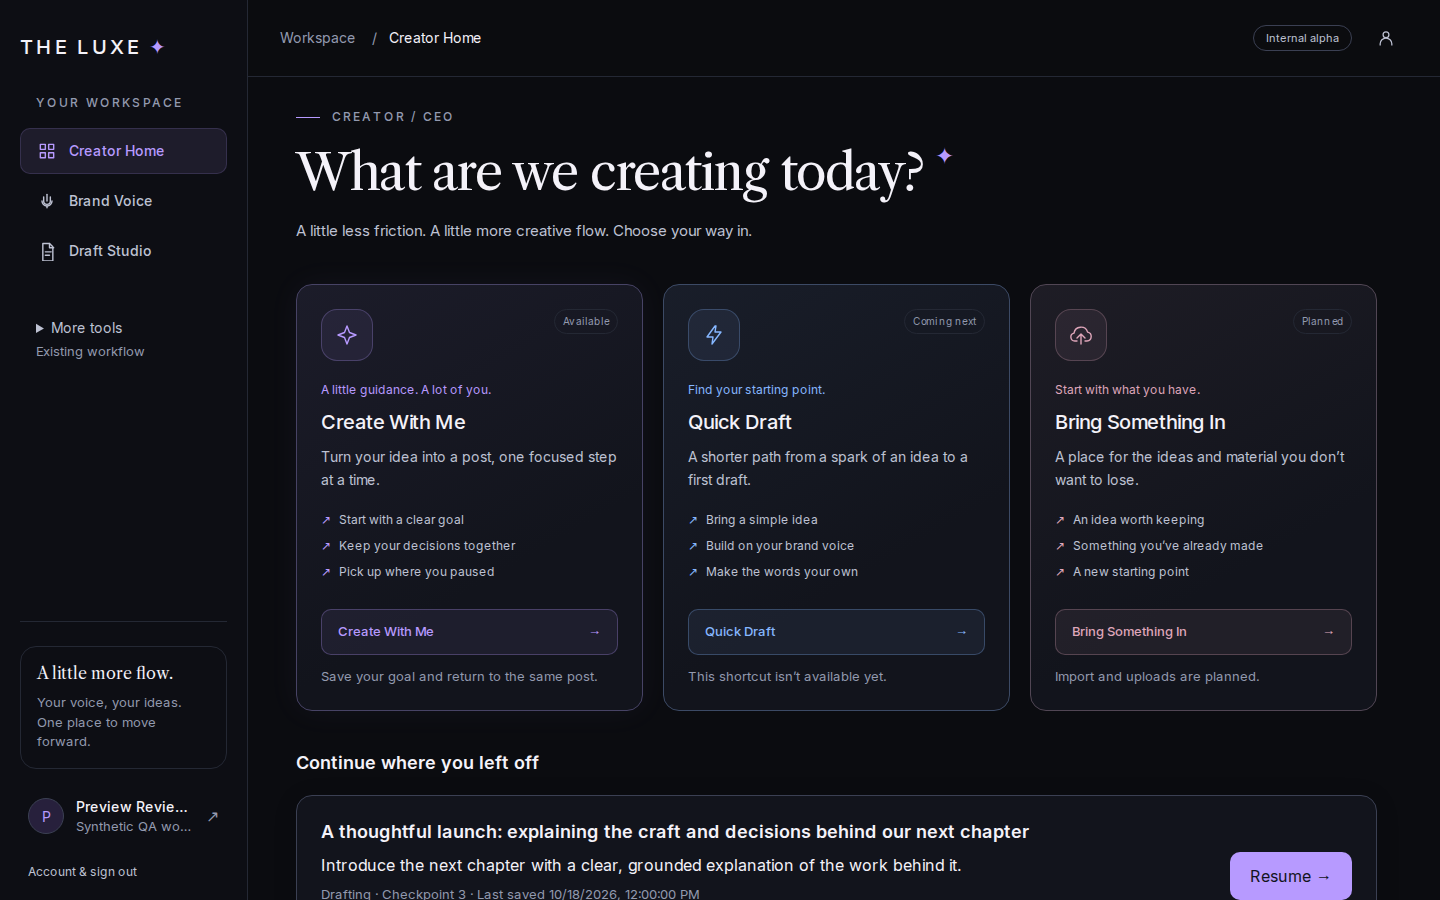
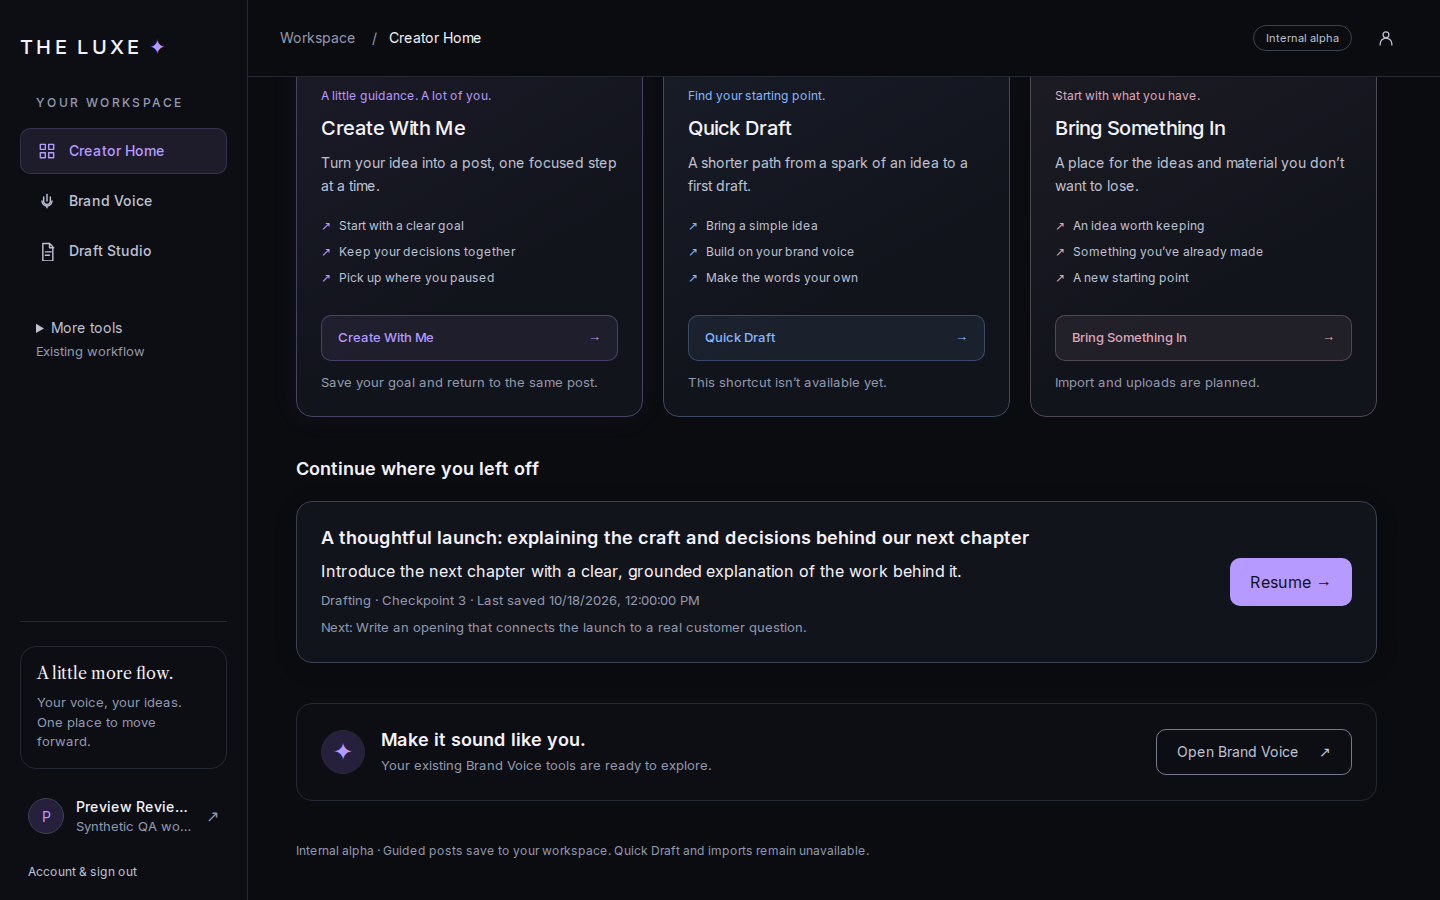
test: frame Creator screenshots for review (#53)

diff --git a/frontend/e2e/content-item-workspace.spec.ts b/frontend/e2e/content-item-workspace.spec.ts
@@ -56,8 +56,9 @@ for (const [name, width, height] of [["desktop", 1440, 900], ["mobile", 390, 844
     await page.goto("/dashboard");
     await expect(page.getByRole("link", { name: /Resume/ })).toBeVisible();
     await expect(page.getByRole("link", { name: "Create With Me", exact: true })).toHaveAttribute("href", "/content-items/new");
+    await page.evaluate(async () => { await document.fonts.ready; window.scrollTo(0, 0); document.querySelector("main")?.scrollTo(0, 0); });
     await page.screenshot({ path: testInfo.outputPath(`creator-home-${name}.png`), animations: "disabled" });
-    await page.getByRole("link", { name: /Resume/ }).scrollIntoViewIfNeeded();
+    await page.getByRole("heading", { name: "Continue where you left off", exact: true }).evaluate((element) => element.scrollIntoView({ block: "start" }));
     await page.screenshot({ path: testInfo.outputPath(`creator-resume-${name}.png`), animations: "disabled" });
     await page.getByRole("link", { name: /Resume/ }).click();
     await expect(page).toHaveURL(new RegExp(`/content-items/${itemId}$`));
@@ -69,6 +70,7 @@ for (const [name, width, height] of [["desktop", 1440, 900], ["mobile", 390, 844
     await page.screenshot({ path: testInfo.outputPath(`post-dashboard-${name}.png`), animations: "disabled" });
     await page.getByRole("button", { name: "Edit checkpoint", exact: true }).click();
     await expect(page.getByRole("textbox", { name: "Content goal", exact: true })).toHaveValue(item.goal);
+    await page.evaluate(() => { window.scrollTo(0, 0); document.querySelector("main")?.scrollTo(0, 0); });
     await page.screenshot({ path: testInfo.outputPath(`checkpoint-editor-${name}.png`), animations: "disabled" });
     if (name === "mobile") {
       await page.getByRole("button", { name: "Save and return", exact: true }).scrollIntoViewIfNeeded();
